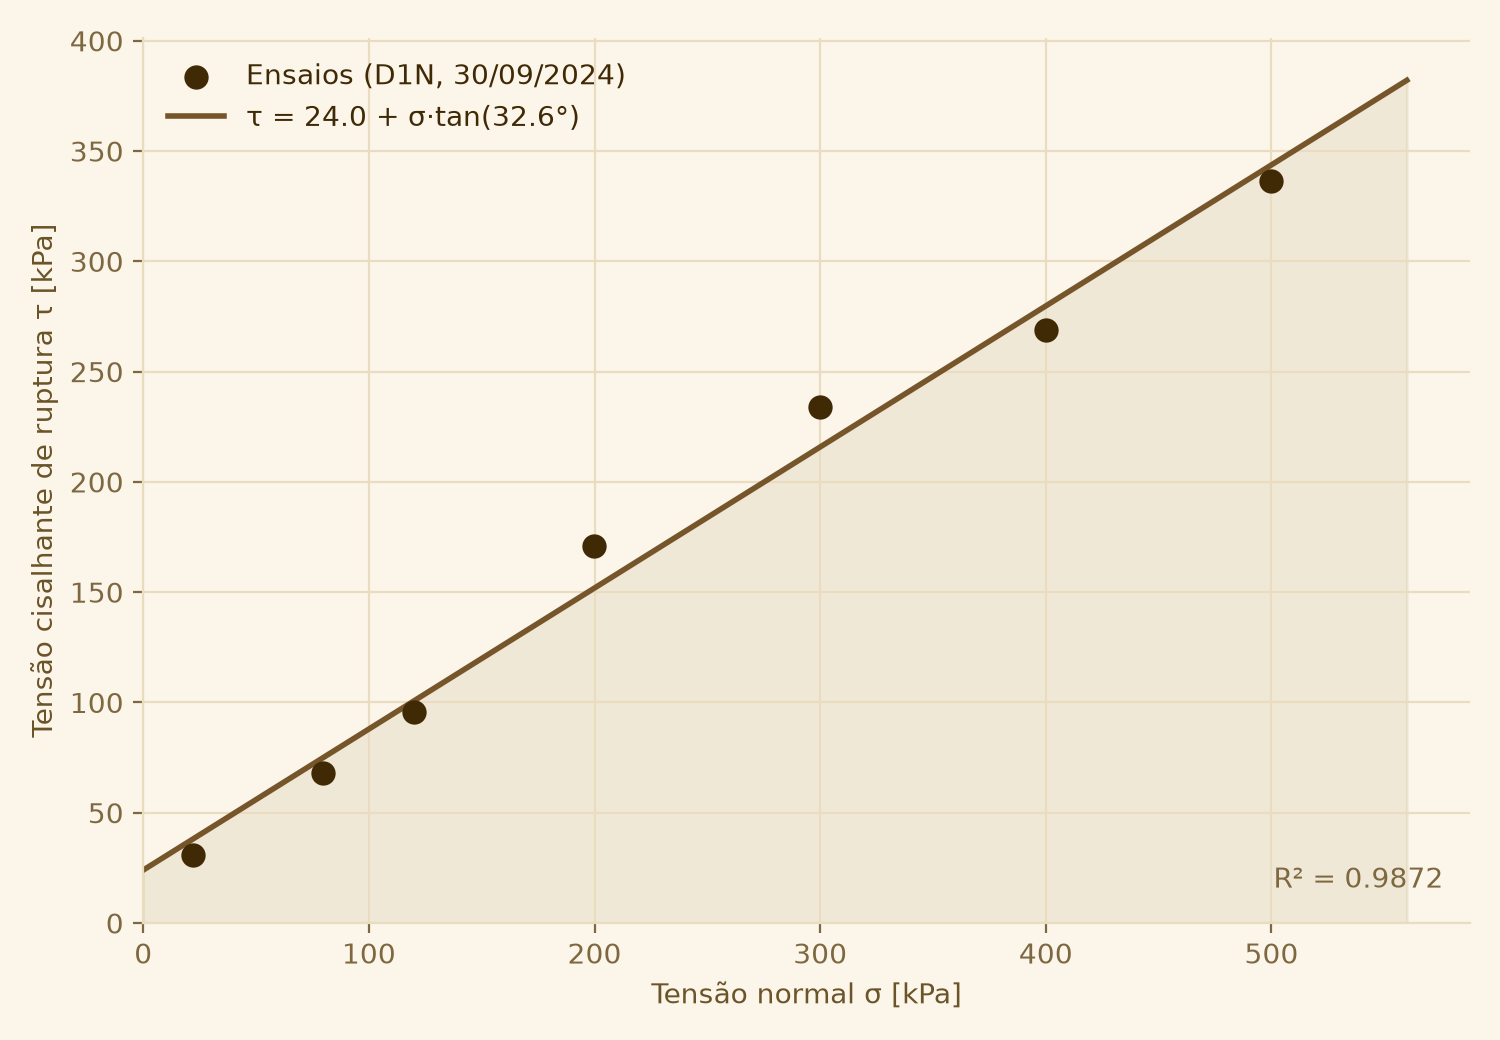
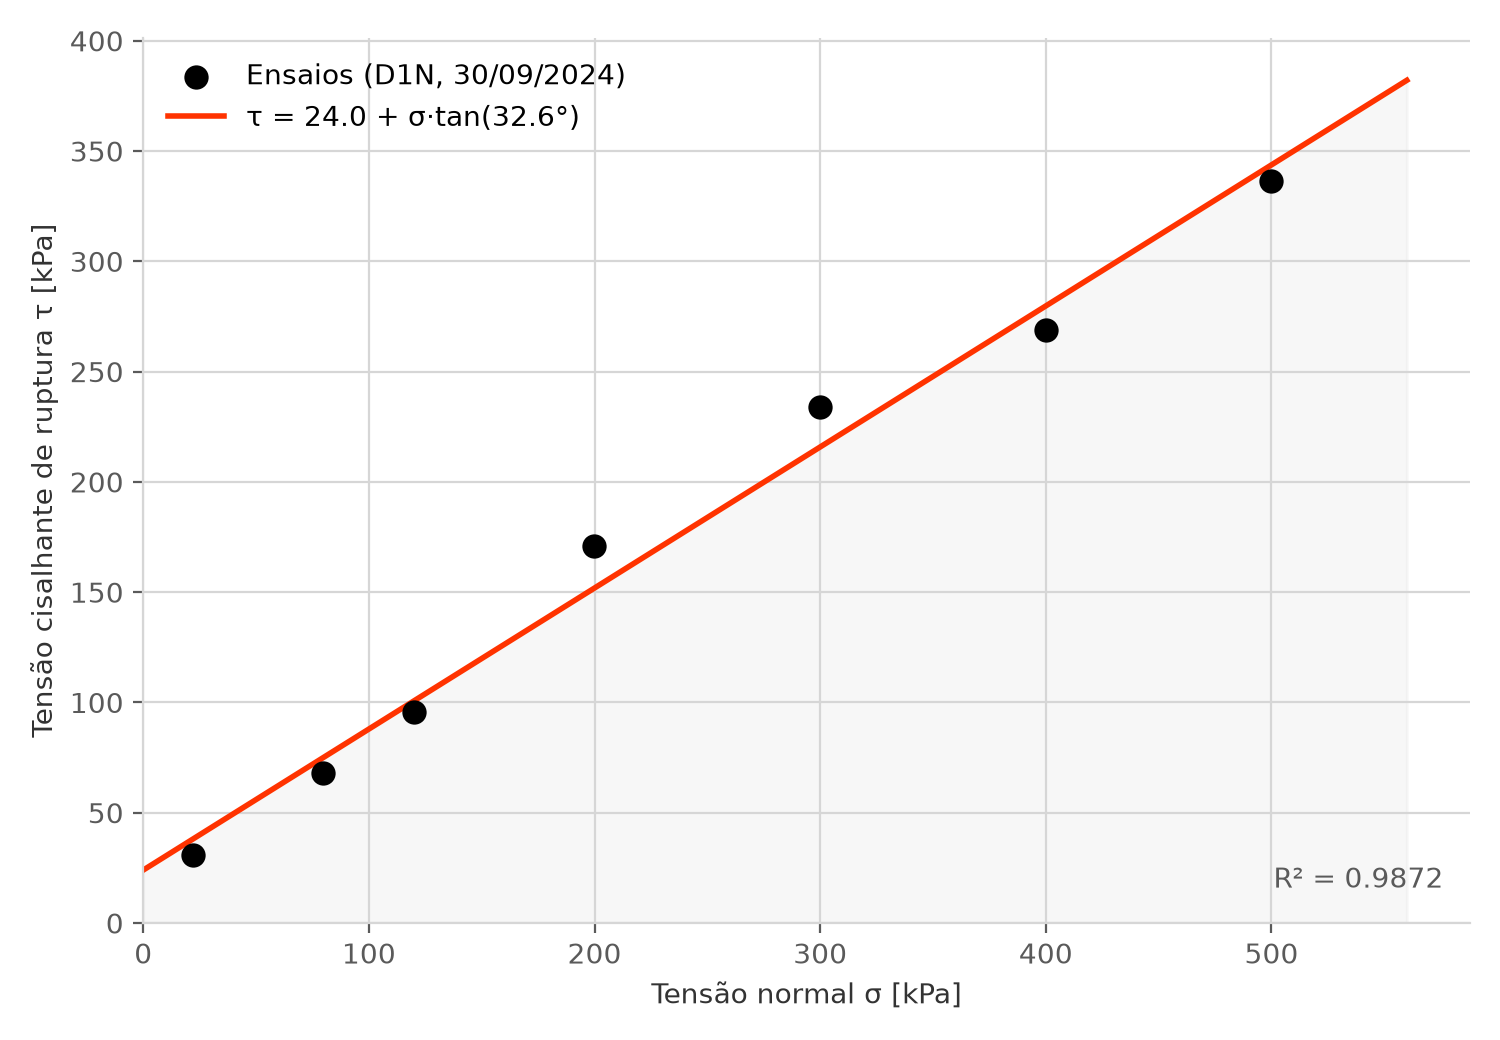
Refaz as figuras de apoio na paleta Swiss Modern
Roda scripts/apoio_apresentacao.py de novo para gerar
forma-da-curva-268.png e envoltoria-d1n.png com as cores novas.

No grafico da forma da curva, a serie em destaque passa a ser o ensaio
travado (NT 268, vermelho tracejado com marcador) e o NT 296 fica preto e
continuo - a regra do CLAUDE.md e o mesmo do slide 8 da apresentacao.

Numeros inalterados: NT 296 pico 1181,6 kPa; NT 268 794,1 kPa em 3,27 mm;
envoltoria D1N c = 23,99 kPa, phi = 32,60 graus, R2 = 0,9872.

diff --git a/scripts/apoio_apresentacao.py b/scripts/apoio_apresentacao.py
@@ -64,14 +64,15 @@ def figura_forma_da_curva() -> None:
     ax.plot(
         nt296["Deslocamento Cisalhante [mm]"],
         nt296["Tensao Cisalhante [kPa]"],
-        color=TERRA,
+        color=INK,
         linewidth=2.2,
         label="NT 296 (σ = 50 kPa) — rompe",
     )
+    # serie em destaque (o ensaio travado): acento, tracejada e com marcador
     ax.plot(
         nt268["Deslocamento Cisalhante [mm]"],
         nt268["Tensao Cisalhante [kPa]"],
-        color=INK,
+        color=TERRA,
         linewidth=2.2,
         linestyle="--",
         marker="o",
